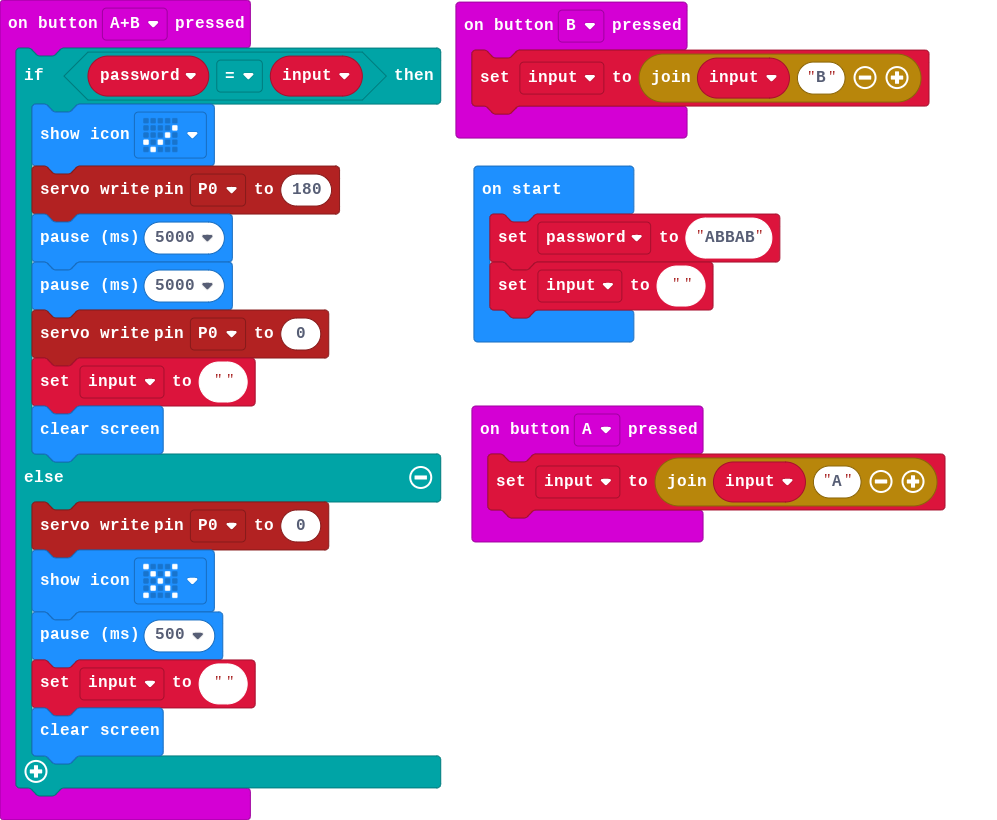
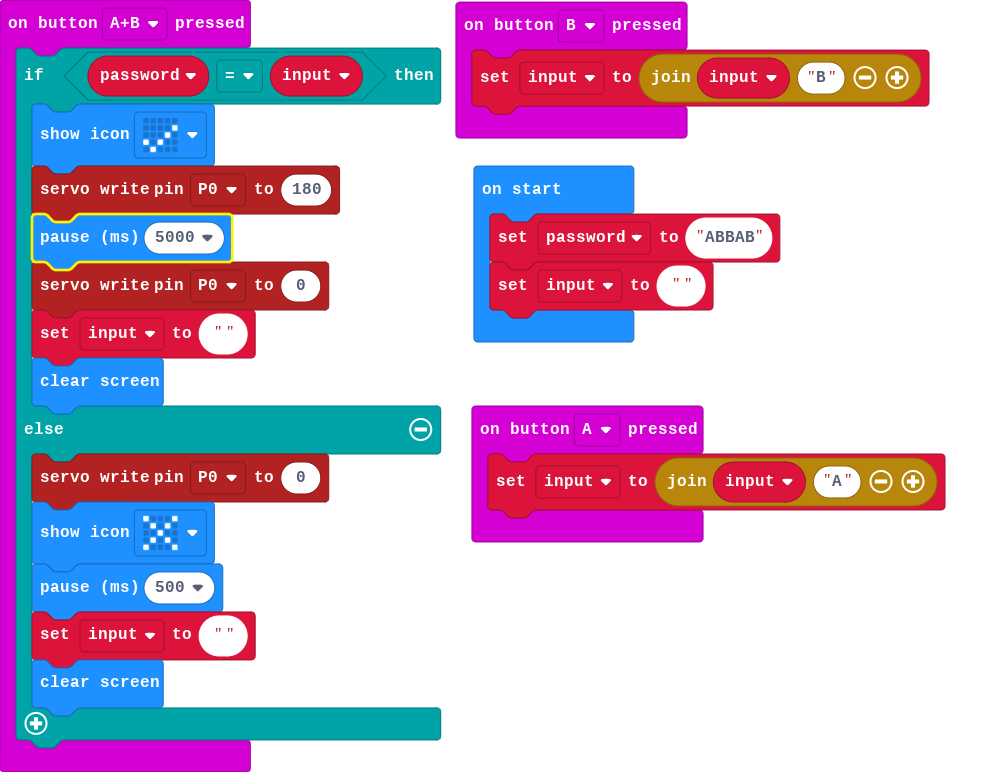
Update main.blocks, main.ts

Changed region(s): [[0.0, 0.0, 0.9639, 0.9948], [0.0, 0.0311, 0.0311, 0.0622]]

diff --git a/main.ts b/main.ts
@@ -6,7 +6,6 @@ input.onButtonPressed(Button.AB, function () {
         basic.showIcon(IconNames.Yes)
         pins.servoWritePin(AnalogPin.P0, 180)
         basic.pause(5000)
-        basic.pause(5000)
         pins.servoWritePin(AnalogPin.P0, 0)
         input2 = ""
         basic.clearScreen()
